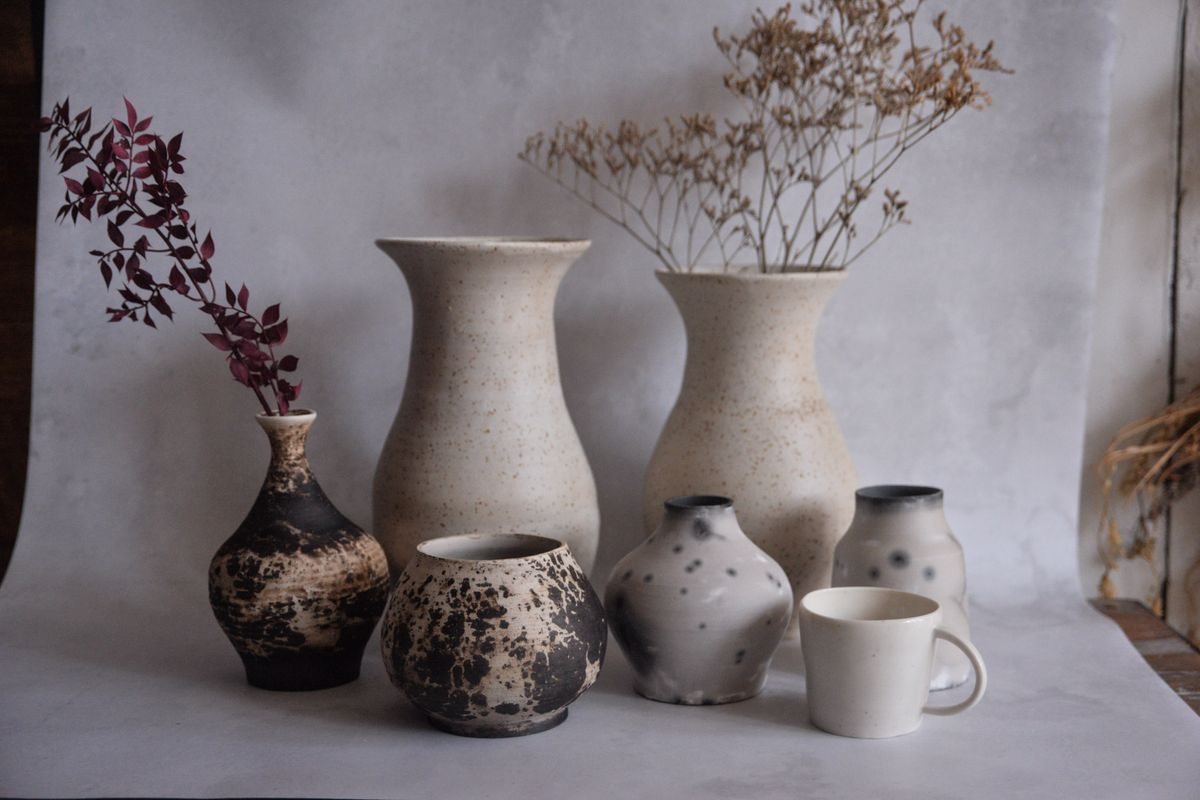
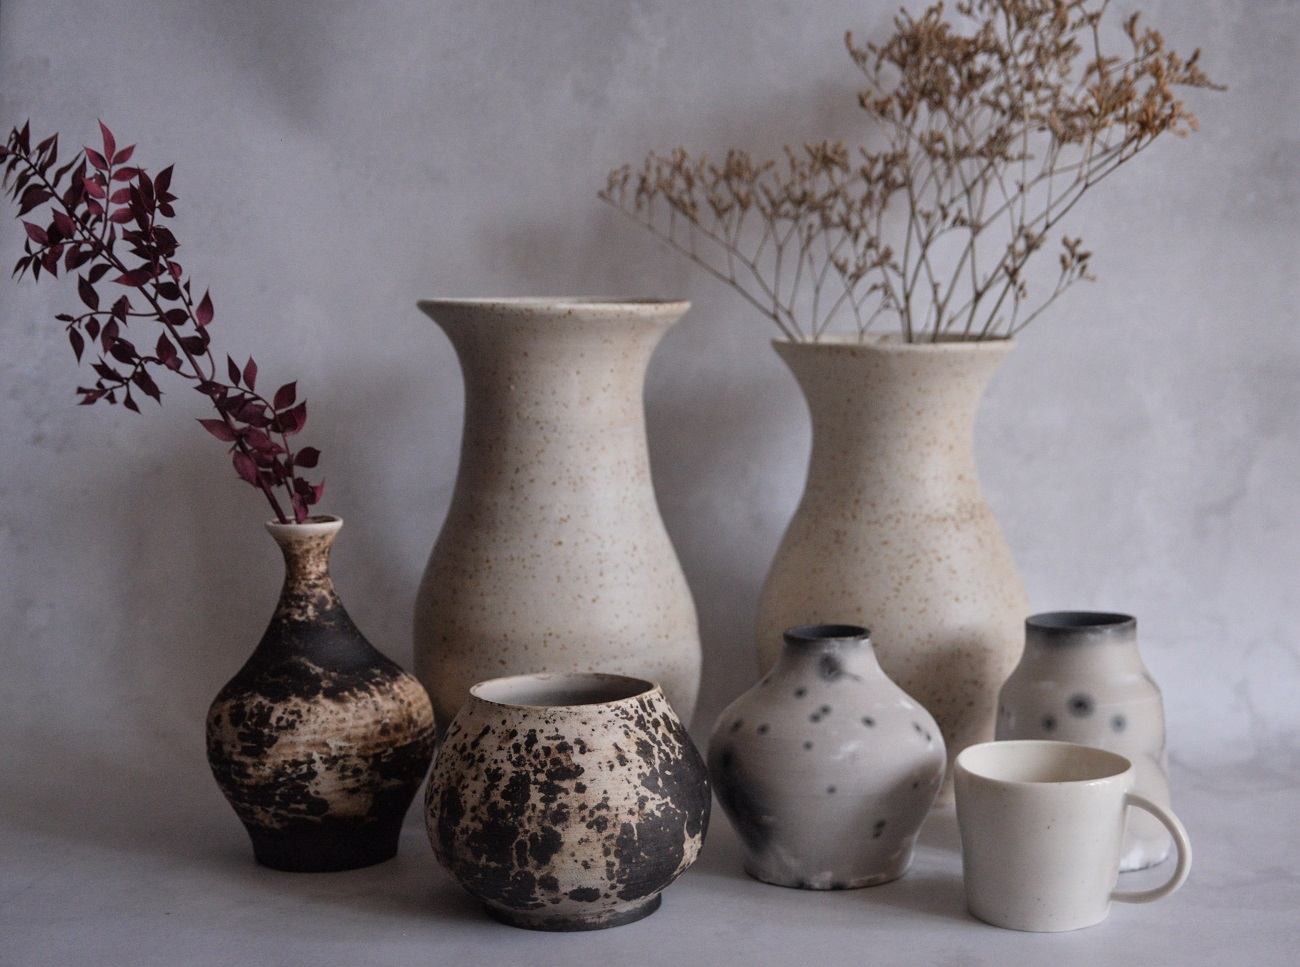
improved img handling

diff --git a/src/_includes/styles.css b/src/_includes/styles.css
@@ -24,6 +24,22 @@
     unicode-range: U+0000-00FF, U+0131, U+0152-0153, U+02BB-02BC, U+02C6, U+02DA, U+02DC, U+2000-206F, U+2074, U+20AC, U+2122, U+2191, U+2193, U+2212, U+2215, U+FEFF, U+FFFD;
 }
 
+* {
+    box-sizing: border-box;
+}
+
+html {
+    color: white;
+    background-color: black;
+}
+
+body {
+    width: 100%;
+    height: 100%;
+    min-height: 100vh;
+    margin: 0;
+}
+
 h1,
 h2,
 h3,
@@ -39,21 +55,15 @@ p {
     text-align: end;
 }
 
-* {
-    box-sizing: border-box;
+a {
+    text-decoration: none;
+    font-family: 'Cormorant', serif;
+    margin: 1rem;
+    color: ghostwhite;
 }
 
-html {
-    color: white;
-    background-color: black;
-}
-
-body {
-    width: 100%;
-    max-width: 150rem;
-    height: 100%;
-    min-height: 100vh;
-    margin: 0;
+a:hover {
+    color: white
 }
 
 header {
@@ -75,28 +85,26 @@ main {
     min-height: 50vh;
 }
 
-ul#pictures {
+img {
+    height: 100%;
+    width: 100%;
+    object-fit: cover;
+}
+
+ul#pics-container {
     display: flex;
     flex-wrap: wrap;
     align-content: center;
     justify-content: center;
-    max-width: 100vw;
+    width: 100vw;
     padding: 0;
     list-style: none;
 }
 
-li.picture {
+li.pic-container {
     flex-grow: 1;
     height: 30vh;
-    max-width: 80vw;
-}
-
-img {
-    object-fit: cover;
-    height: 100%;
-    width: 100%;
-    margin: auto;
-    display: block;
+    max-width: 50vw;
 }
 
 li.blank {
@@ -110,7 +118,7 @@ li.blank {
     overflow: hidden;
     position: fixed;
     z-index: 1;
-    padding: 6rem 3rem;
+    padding: 2rem 1rem;
     left: 0;
     top: 0;
     width: 100%;
@@ -156,4 +164,10 @@ li.blank {
 
 .pointer {
     cursor: pointer;
+}
+
+cursor: pointer;
+
+}
+
 }

diff --git a/.eleventy.js b/.eleventy.js
@@ -16,9 +16,9 @@ const htmlMinTransform = (value, outputPath) => {
     return htmlmin.minify(value, config);
 }
 
-const imageShortcode = (src, alt) => {
+const imageShortcode = (src, alt, withLarge = false) => {
     const options = {
-        widths: [300, 600, 1000],
+        widths: withLarge ? [300, 600, 1000] : [300, 600],
         formats: ["jpg"],
         outputDir: "./dist/img/",
         // outputDir: "./assets/pics_new/",
@@ -26,15 +26,17 @@ const imageShortcode = (src, alt) => {
     };
     Image(src, options);
     const metadata = Image.statsSync(src, options);
-    const smallestUrl = metadata.jpeg[0].url;
-    const srcset = metadata.jpeg.map(i => i.srcset).join(', ');
-    return `<img src="${smallestUrl}" alt="${alt}" srcset="${srcset}" loading="lazy">`
+    const smallest = metadata.jpeg[0];
+    const srcset = metadata.jpeg.slice(0, 2).map(i => i.srcset).join(', ');
+    const sizes = "(max-width: 800px) 300px, 600px";
+    const dataAttr = withLarge ? "data-large-src=" + metadata.jpeg[metadata.jpeg.length - 1].url : "";
+    return `<img src="${smallest.url}" width=${smallest.width} height=${smallest.height} alt="${alt}" srcset="${srcset}" sizes="${sizes}" ${dataAttr} loading="lazy">`
 }
 
 const createPicsCollection = () => {
     const picsDirectory = path.resolve(__dirname, "./assets/pics");
     const picFilenames = fs.readdirSync(picsDirectory);
-    return picFilenames.map(filename => ({ src: `assets/pics/${filename}`, alt: filename.split('.')[0] }));
+    return picFilenames.map((filename, index) => ({ index, src: `assets/pics/${filename}`, alt: filename.split('.')[0] }));
 };
 
 module.exports = function(config) {

diff --git a/src/js/modals.js b/src/js/modals.js
@@ -3,8 +3,7 @@ var modal = document.getElementById("modal")
 function openModal(event, img) {
     if (event instanceof KeyboardEvent && event.key !== 'Enter' && event.key !== ' ') return;
     modal.firstChild.focus()
-    modal.lastChild.setAttribute("src", img.src);
-    modal.lastChild.setAttribute("srcset", img.srcset);
+    modal.lastChild.setAttribute("src", img.dataset.largeSrc);
     modal.lastChild.setAttribute("alt", img.alt);
     modal.classList.add("active");
 }
@@ -12,17 +11,9 @@ function openModal(event, img) {
 function closeModal(event) {
     if (event && event.target.tagName == "IMG") return;
     modal.classList.remove("active");
+    modal.lastChild.setAttribute("alt", "");
+    modal.lastChild.setAttribute("src", "");
 }
-
-var pictures = document.getElementsByClassName("picture")
-Array.prototype.forEach.call(pictures, function(element) {
-    element.setAttribute("role", "button");
-    element.setAttribute("tabindex", "0");
-    element.setAttribute("onClick", "openModal(event, this.firstChild)");
-    element.setAttribute("onKeyDown", "openModal(event, this.firstChild)");
-    element.classList.add("pointer");
-
-})
 
 window.addEventListener('keydown', function(event) {
     if (event.key === 'Escape') {
